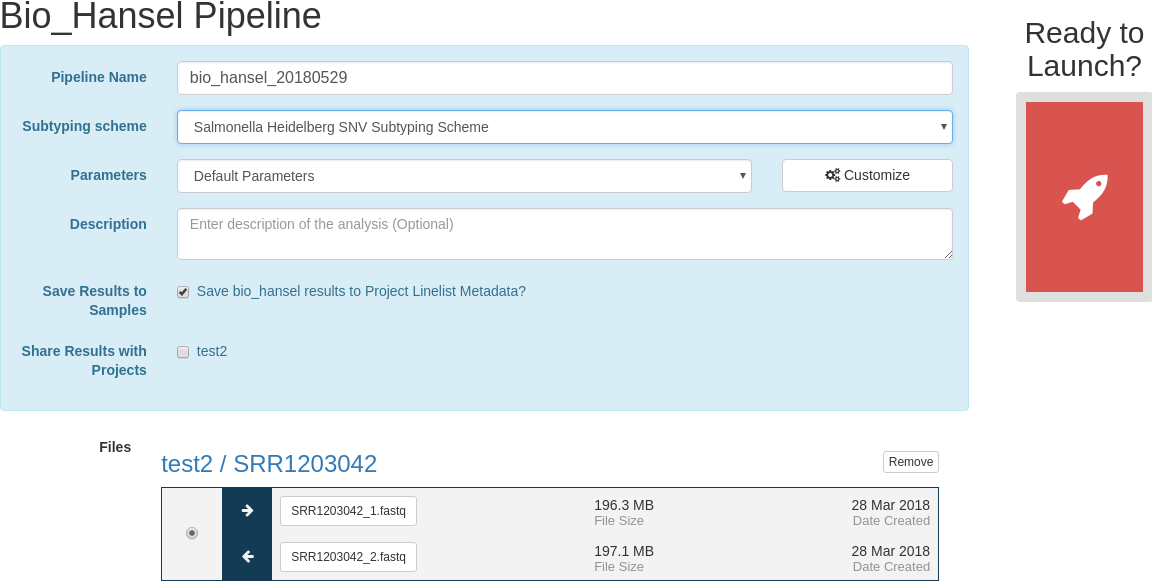
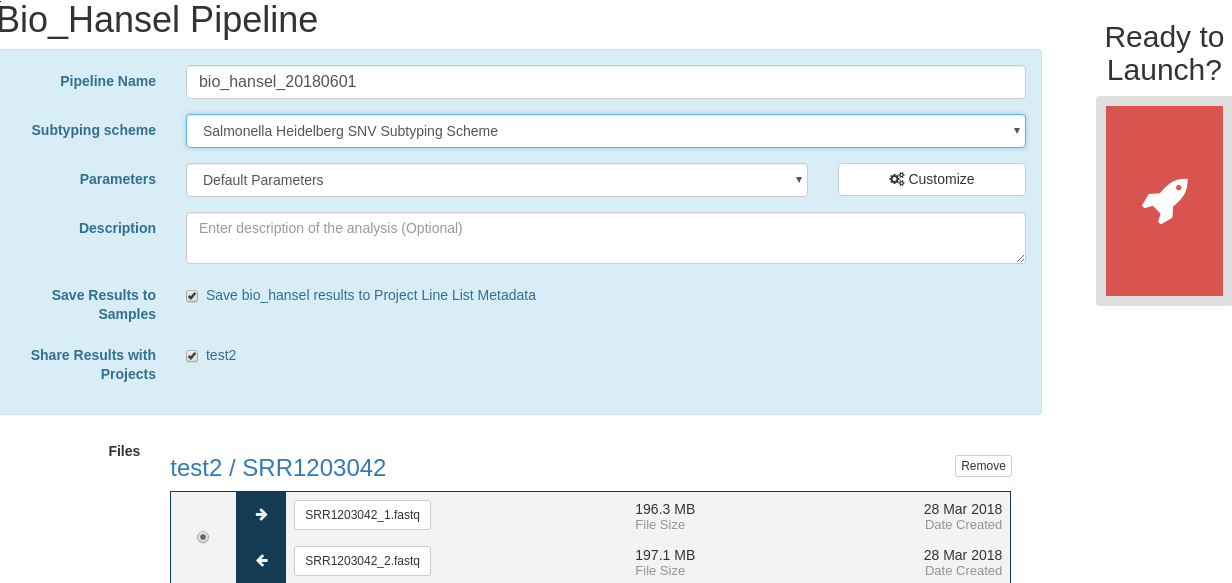
docs fix

diff --git a/doc/user/tutorials/bio_hansel/index.md b/doc/user/tutorials/bio_hansel/index.md
@@ -46,7 +46,7 @@ Once the pipeline is selected, the next page provides an overview of all the inp
 
 ![](images/bio_hansel-pipeline_launch-initial.png)
 
-Please select the **Salmonella Heidelberg SNV Subtyping Scheme** and ensure that the **Save bio_hansel results to Project Linelist Metadata?** checkbox is checked:
+Please select the **Salmonella Heidelberg SNV Subtyping Scheme** and ensure that the **Save bio_hansel results to Project Line List Metadata** checkbox is checked:
 
 ![](images/bio_hansel-pipeline_launch-selected_scheme-save_to_sample_metadata.png)
 
